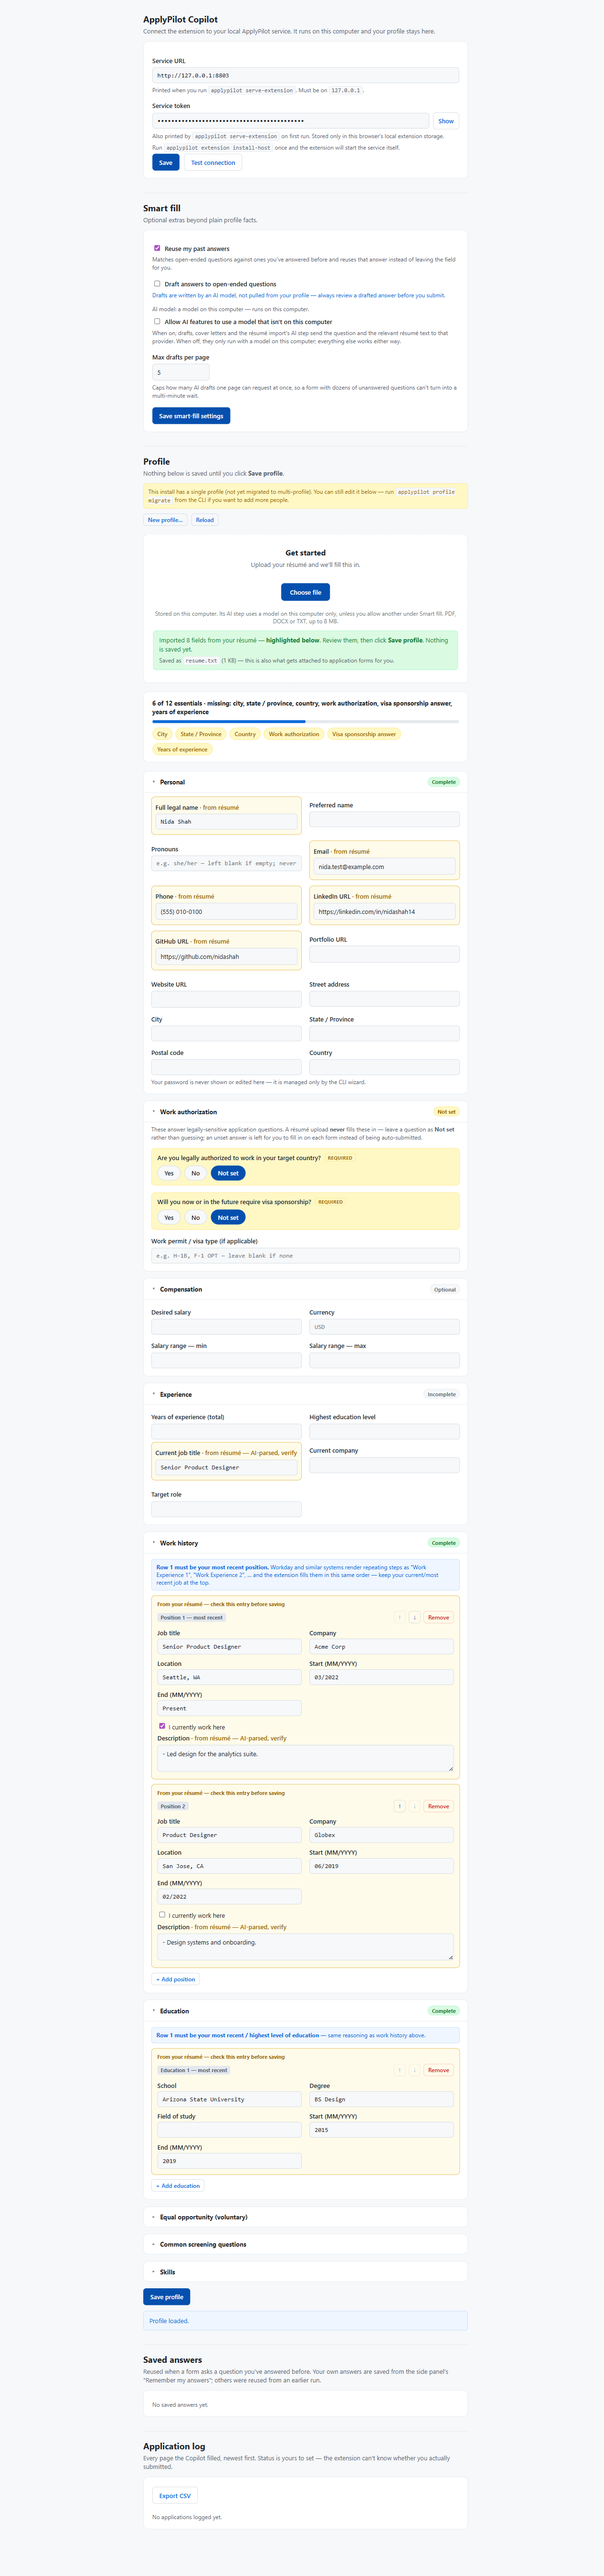
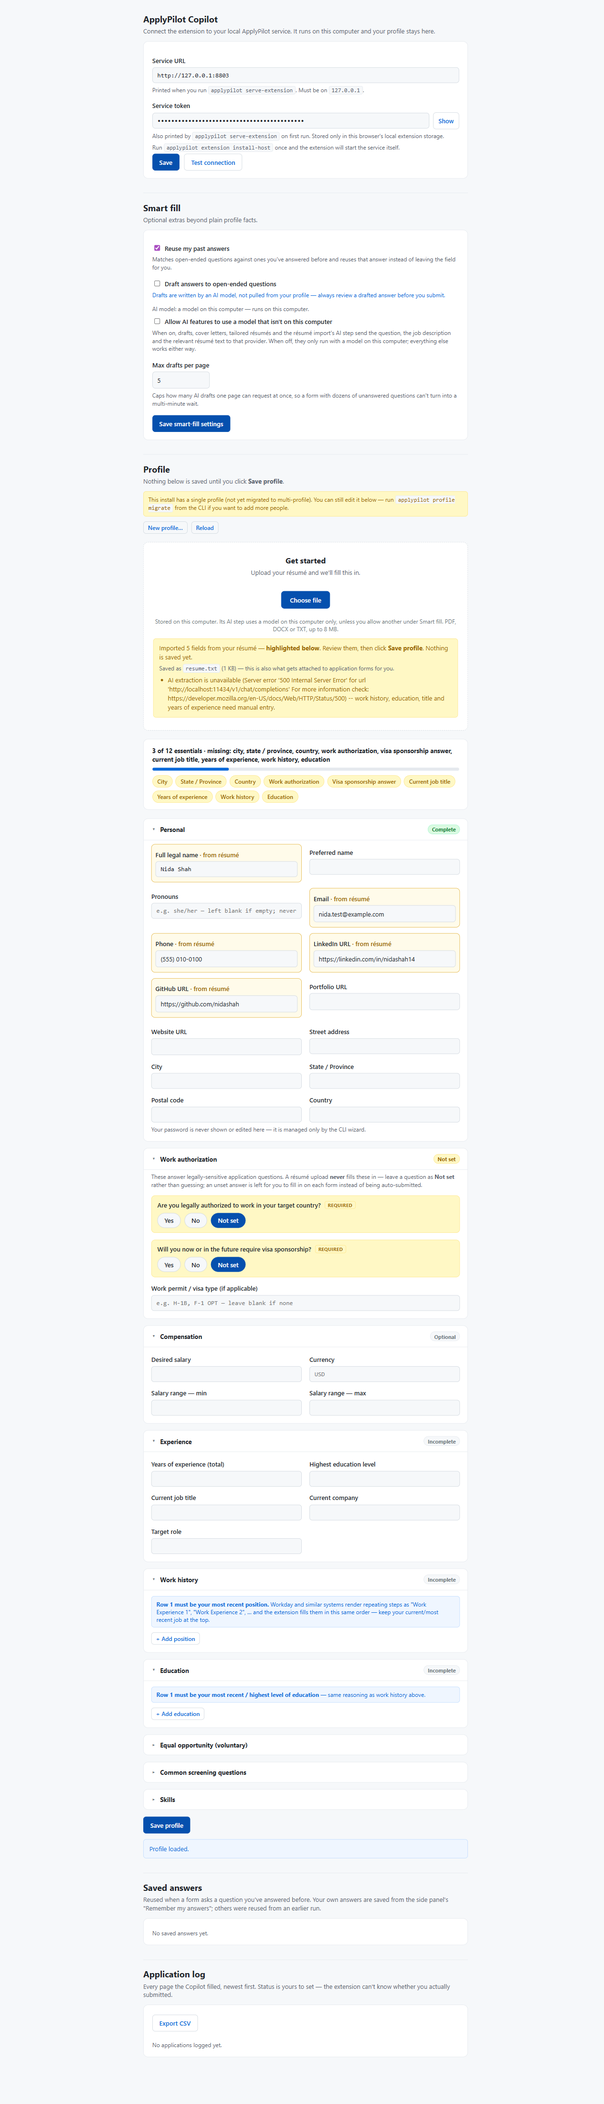
extension: read the tab's URL before a site is allowed ("tabs"); hermetic tests
Real-site bug: with only optional host permissions, Chrome hides tab.url for
any site not yet allowed, so the side panel treated every real job page as
unscriptable ("Open a job application page (http/https) in this tab...") and
never offered Fill -- the click that would have shown the per-site prompt.
Adding the "tabs" permission lets the panel read the one tab it shows.
Regression: TAB 0 in chrome_panel_test.py opens a page on an origin the test
has NOT granted and asserts Fill is offered and the red line is absent.

The permission gate never fails silently: if chrome.permissions.request()
rejects or throws (Chrome refusing to show its prompt, not a Deny), the
click used to do nothing at all (and the tailored-resume buttons stuck on
"Saving..."). gatePermissions() now resolves false with Chrome's reason, and
every caller shows it plus the no-prompt route (Alt+Shift+G). TAB 0 stubs the
request (reject / throw / deny) and checks each line and that nothing ran.

Tests never reach the operator's real native host: a Playwright Chrome build
reads the same Google Chrome NativeMessagingHosts registration, so after
install-host the panel/options tests auto-connected to the real service.
background.js honors a TEST-ONLY chrome.storage.local.nativeHostNameOverride,
set by chrome_panel_test.py and both e2e options scripts before any extension
page loads. install-host now registers for Google Chrome only and removes the
[…]

diff --git a/extension/sidepanel.js b/extension/sidepanel.js
@@ -191,14 +191,41 @@
   /**
    * Synchronous by design: reads the cache refreshOriginInfo() already populated and, if
    * anything is missing, calls chrome.permissions.request() immediately — the caller (a click
-   * handler) must invoke this with NO `await` beforehand. Returns { requested, promise }, never
-   * itself a Promise, so calling it can never itself introduce an await.
+   * handler) must invoke this with NO `await` beforehand. Returns { requested, error, promise },
+   * never itself a Promise, so calling it can never itself introduce an await.
    */
   function gatePermissions(tabId) {
     var info = originInfoByTab[tabId];
     var missing = info ? info.missing : [];
     if (!missing.length) return { requested: [], promise: Promise.resolve(true) };
-    return { requested: missing, promise: chrome.permissions.request({ origins: missing }) };
+    // Never throws, never rejects: when Chrome refuses to show its prompt at all (an error, not
+    // a "Deny"), the promise resolves false and gate.error keeps Chrome's reason, so every
+    // caller's not-granted branch says what happened instead of the click silently doing nothing.
+    var gate = { requested: missing, error: null, promise: null };
+    try {
+      gate.promise = chrome.permissions.request({ origins: missing }).then(function (granted) {
+        return !!granted;
+      }, function (e) {
+        gate.error = (e && e.message) || String(e);
+        return false;
+      });
+    } catch (e) {
+      gate.error = (e && e.message) || String(e);
+      gate.promise = Promise.resolve(false);
+    }
+    return gate;
+  }
+
+  // The line a not-granted gate shows: a real "Deny" names the sites; a prompt Chrome would not
+  // show at all says so, with Chrome's own reason and the way through that needs no prompt.
+  function permissionLine(gate, doing) {
+    var hosts = gate.requested.map(hostFromPattern).join(', ');
+    if (gate.error) {
+      return 'Chrome did not show its permission prompt for ' + hosts + ' (' + gate.error + '). ' +
+        'Click again, or press Alt+Shift+G on the page, which needs no prompt unless the form ' +
+        'is embedded from another site.';
+    }
+    return 'ApplyPilot needs permission to ' + doing + ' on ' + hosts + ' — nothing runs until you allow it.';
   }
 
   function setStatus(text, isError) {
@@ -709,8 +736,7 @@
     var gate = gatePermissions(tabId);
     gate.promise.then(async function (granted) {
       if (!granted) {
-        setStatus('ApplyPilot needs permission to fill forms on ' +
-          gate.requested.map(hostFromPattern).join(', ') + ' — nothing runs until you allow it.', true);
+        setStatus(permissionLine(gate, 'fill forms'), true);
         return;
       }
       var tab = await safeGetTab(tabId);
@@ -772,8 +798,7 @@
     gate.promise.then(async function (granted) {
       if (!granted) {
         continuationToggle.checked = false;
-        setStatus('ApplyPilot needs permission to keep filling on ' +
-          gate.requested.map(hostFromPattern).join(', ') + ' — nothing runs until you allow it.', true);
+        setStatus(permissionLine(gate, 'keep filling'), true);
         return;
       }
       var tab = await safeGetTab(tabId);
@@ -820,8 +845,7 @@
     var gate = gatePermissions(tabId);
     gate.promise.then(async function (granted) {
       if (!granted) {
-        setStatus('ApplyPilot needs permission to read this page on ' +
-          gate.requested.map(hostFromPattern).join(', ') + ' — nothing runs until you allow it.', true);
+        setStatus(permissionLine(gate, 'read this page'), true);
         return;
       }
       reportBtn.disabled = true;
@@ -989,8 +1013,7 @@
     var gate = gatePermissions(tabId);
     gate.promise.then(async function (granted) {
       if (!granted) {
-        setCoverLetterStatus('ApplyPilot needs permission to read this page on ' +
-          gate.requested.map(hostFromPattern).join(', ') + ' — nothing runs until you allow it.', 'error');
+        setCoverLetterStatus(permissionLine(gate, 'read this page'), 'error');
         return;
       }
       var tab = await safeGetTab(tabId);
@@ -1130,8 +1153,7 @@
     var gate = gatePermissions(tabId);
     gate.promise.then(async function (granted) {
       if (!granted) {
-        setTailorResumeStatus('ApplyPilot needs permission to read this page on ' +
-          gate.requested.map(hostFromPattern).join(', ') + ' — nothing runs until you allow it.', 'error');
+        setTailorResumeStatus(permissionLine(gate, 'read this page'), 'error');
         return;
       }
       var tab = await safeGetTab(tabId);

diff --git a/extension/background.js b/extension/background.js
@@ -71,18 +71,30 @@ if (self.chrome && chrome.sidePanel && typeof chrome.sidePanel.setPanelBehavior 
 // ---------------------------------------------------------------------
 var NATIVE_HOST_NAME = 'com.applypilot.copilot';
 
+// TEST-ONLY: chrome.storage.local.nativeHostNameOverride points the extension at a
+// different host name, so the automated tests can never reach an operator's REAL,
+// installed host (and through it the real service and data) on the machine they run
+// on — the test sets a name no host is registered under. Absent in normal use.
+function nativeHostName() {
+  return chrome.storage.local.get('nativeHostNameOverride').then(function (r) {
+    return (r && r.nativeHostNameOverride) || NATIVE_HOST_NAME;
+  }, function () { return NATIVE_HOST_NAME; });
+}
+
 function sendNativeMessage(message) {
-  return new Promise(function (resolve) {
-    try {
-      if (!chrome.runtime.sendNativeMessage) { resolve({ ok: false, error: 'nativeMessaging unavailable in this browser' }); return; }
-      chrome.runtime.sendNativeMessage(NATIVE_HOST_NAME, message, function (response) {
-        var err = chrome.runtime.lastError;
-        if (err) { resolve({ ok: false, error: (err && err.message) || String(err) }); return; }
-        resolve(response && typeof response === 'object' ? response : { ok: false, error: 'empty response from the native host' });
-      });
-    } catch (e) {
-      resolve({ ok: false, error: String(e && e.message ? e.message : e) });
-    }
+  return nativeHostName().then(function (hostName) {
+    return new Promise(function (resolve) {
+      try {
+        if (!chrome.runtime.sendNativeMessage) { resolve({ ok: false, error: 'nativeMessaging unavailable in this browser' }); return; }
+        chrome.runtime.sendNativeMessage(hostName, message, function (response) {
+          var err = chrome.runtime.lastError;
+          if (err) { resolve({ ok: false, error: (err && err.message) || String(err) }); return; }
+          resolve(response && typeof response === 'object' ? response : { ok: false, error: 'empty response from the native host' });
+        });
+      } catch (e) {
+        resolve({ ok: false, error: String(e && e.message ? e.message : e) });
+      }
+    });
   });
 }
 

diff --git a/scripts/chrome_panel_test.py b/scripts/chrome_panel_test.py
@@ -88,6 +88,12 @@ check("minimum_chrome_version bumped to 116 (chrome.sidePanel.setPanelBehavior n
 # --- item 1: auto-connect via native messaging ---
 check("manifest requests the nativeMessaging permission (auto-connect)",
       "nativeMessaging" in (manifest.get("permissions") or []))
+# Without "tabs", Chrome hides a tab's URL from the extension until its site is
+# granted, so on every real (not-yet-granted) job site the panel said "Open a job
+# application page" and never reached the permission prompt — caught by the
+# operator on the first real run. It reads URLs only; host access stays optional.
+check("manifest requests the tabs permission (read the active tab's URL before any grant)",
+      "tabs" in (manifest.get("permissions") or []))
 
 
 def _chrome_extension_id_from_key(b64_key: str) -> str:
@@ -1424,6 +1430,9 @@ KEPT_VALUES_URL = f"{SERVICE_URL}/kept-values-page.html"
 # ---------------------------------------------------------------------------
 # helpers shared by the browser-driven checks below
 # ---------------------------------------------------------------------------
+TEST_ABSENT_HOST = "com.applypilot.copilot.test_absent"
+
+
 def find_tab_id(helper_page, marker, timeout_s=5):
     deadline = time.time() + timeout_s
     while time.time() < deadline:
@@ -1781,6 +1790,9 @@ with sync_playwright() as p:
         if not sw:
             raise SystemExit("cannot continue without the extension's service worker")
         ext_id = sw.url.split("/")[2]
+        # Before ANY extension page loads (each one checks the service): never the
+        # operator's real native host — see TEST_ABSENT_HOST.
+        sw.evaluate("(h) => chrome.storage.local.set({ nativeHostNameOverride: h })", TEST_ABSENT_HOST)
         panel_url = f"chrome-extension://{ext_id}/sidepanel.html"
 
         # --- helper: an ordinary (unpinned) panel page used purely to drive chrome.* API
@@ -1815,10 +1827,13 @@ with sync_playwright() as p:
             return port
 
         UNREACHABLE_URL = f"http://127.0.0.1:{_unused_local_port()}"
+        # A host name no one registers: the suite must never reach the operator's REAL
+        # installed host (and through it the real service and data) on this machine — a
+        # Playwright Chrome build reads the same Google Chrome registration.
         helper.evaluate(
             "(cfg) => chrome.storage.local.set(cfg).then(() => "
             "chrome.storage.local.remove(['token', 'serviceConnection']))",
-            {"serviceUrl": UNREACHABLE_URL},
+            {"serviceUrl": UNREACHABLE_URL, "nativeHostNameOverride": TEST_ABSENT_HOST},
         )
 
         panel0 = ctx.new_page()
@@ -1849,7 +1864,7 @@ with sync_playwright() as p:
         # token is already stored and calls keep succeeding (see requestWithAutoConnect).
         helper.evaluate(
             "(cfg) => chrome.storage.local.set(cfg)",
-            {"serviceUrl": SERVICE_URL, "token": "test-token"},
+            {"serviceUrl": SERVICE_URL, "token": "test-token", "nativeHostNameOverride": TEST_ABSENT_HOST},
         )
 
         # Record every chrome.storage.session write, keyed by tabId, straight from
@@ -1870,6 +1885,74 @@ with sync_playwright() as p:
                 }
             });
         }""")
+
+        # =====================================================================
+        # TAB 0 — a page on a site the extension has NOT been granted (localhost
+        #         is not in host_permissions; only 127.0.0.1 is). The panel must
+        #         still see it as a fillable page and offer Fill, which is what
+        #         leads to Chrome's per-site permission prompt.
+        # =====================================================================
+        tab0 = ctx.new_page()
+        tab0.goto(f"http://localhost:{stub_port}/test-page.html#t=0-ungranted")
+        tab0_id = find_tab_id(helper, "#t=0-ungranted")
+        check("found the ungranted tab's id (its URL is readable)", tab0_id is not None)
+        panel0 = ctx.new_page()
+        panel0.goto(f"{panel_url}?tabId={tab0_id}")
+        panel0.wait_for_function("() => window.__applyPilotPanelReady === true", timeout=5000)
+        status0 = panel0.eval_on_selector("#statusBox", "el => el.textContent") or ""
+        check("an ungranted https/http page is NOT reported as 'open a job application page'",
+              "Open a job application page" not in status0, status0)
+        check("Fill is offered on an ungranted page (leading to Chrome's permission prompt)",
+              panel0.eval_on_selector("#scanBtn", "el => el.disabled") is False)
+
+        # Clicking Fill here reaches the REAL chrome.permissions.request() for localhost, whose
+        # native prompt Playwright can't click -- so the panel's own reference to it is swapped
+        # for a stub per case. Every case must end in a visible line on the panel and no fill:
+        # a request that rejects or throws (Chrome refusing to show its prompt at all) used to
+        # leave the click silently doing nothing.
+        def click_fill_with_request(stub_js, expect):
+            panel0.evaluate(stub_js)
+            panel0.evaluate("() => { document.querySelector('#statusBox').textContent = ''; }")
+            panel0.click("#scanBtn")
+            try:
+                panel0.wait_for_function(
+                    "(t) => (document.querySelector('#statusBox').textContent || '').includes(t)",
+                    arg=expect, timeout=5000)
+            except Exception:
+                pass
+            return panel0.eval_on_selector("#statusBox", "el => el.textContent") or ""
+
+        resolves_before0 = len(resolve_calls)
+        line0 = click_fill_with_request(
+            "() => { window.__permCalls = []; chrome.permissions.request = (arg) => {"
+            " window.__permCalls.push(arg);"
+            " return Promise.reject(new Error('Could not find an active window.')); }; }",
+            "did not show its permission prompt")
+        perm_calls0 = panel0.evaluate("() => window.__permCalls")
+        # Exactly the page's origin, port included -- never a wider "any port" grant.
+        check("Fill on an ungranted page asks Chrome for exactly that site's origin",
+              perm_calls0 == [{"origins": [f"http://localhost:{stub_port}/*"]}], json.dumps(perm_calls0))
+        check("a permission request Chrome REJECTS shows a line with Chrome's reason (never a silent click)",
+              f"did not show its permission prompt for localhost:{stub_port} (Could not find an active window.)"
+              in line0, line0)
+        check("...and names the no-prompt route (Alt+Shift+G)", "Alt+Shift+G" in line0, line0)
+        line0b = click_fill_with_request(
+            "() => { chrome.permissions.request = () => { throw new Error('request threw'); }; }",
+            "did not show its permission prompt")
+        check("a permission request that THROWS shows the same line, with its reason",
+              f"did not show its permission prompt for localhost:{stub_port} (request threw)" in line0b,
+              line0b)
+        line0c = click_fill_with_request(
+            "() => { chrome.permissions.request = () => Promise.resolve(false); }",
+            "needs permission")
+        check("a real Deny names the site and says nothing runs",
+              line0c == f"ApplyPilot needs permission to fill forms on localhost:{stub_port} — nothing runs until you allow it.",
+              line0c)
+        check("no ungranted-page case reached /resolve or wrote a fill state",
+              len(resolve_calls) == resolves_before0 and not (get_state(helper, tab0_id) or {}).get("counts"),
+              f"resolve calls +{len(resolve_calls) - resolves_before0}")
+        panel0.close()
+        tab0.close()
 
         # =====================================================================
         # TAB 1 — basic fill through the REAL panel button, proving per-tab state

diff --git a/src/applypilot/extension/native_install.py b/src/applypilot/extension/native_install.py
@@ -8,7 +8,7 @@ What ``applypilot extension install-host`` does:
    ``python -m applypilot.extension.native_host`` with this install's data
    directory, and com.applypilot.copilot.json, the host manifest naming the
    launcher and allowing ONLY that extension ID;
-3. registers the manifest for Chrome (and Chromium) under
+3. registers the manifest for Google Chrome (only) under
    HKCU\\Software\\<browser>\\NativeMessagingHosts\\com.applypilot.copilot.
 
 Everything is per-user and reversible with ``uninstall-host``.
@@ -25,8 +25,15 @@ from typing import Callable
 
 from applypilot.extension.native_host import HOST_NAME
 
+# Google Chrome only. Registering for Chromium too let the test suite's own
+# (Playwright) Chromium find the operator's real host and talk to the real,
+# live service; nobody runs the extension in plain Chromium day to day.
 REGISTRY_PATHS = (
     r"Software\Google\Chrome\NativeMessagingHosts",
+)
+# Registered by the first version of this installer; removed on (re)install
+# and uninstall.
+LEGACY_REGISTRY_PATHS = (
     r"Software\Chromium\NativeMessagingHosts",
 )
 
@@ -99,6 +106,7 @@ def _winreg_delete(subkey: str) -> None:
 def install(extension_dir: Path, app_dir: Path, *, python_exe: str | None = None,
             env: dict[str, str] | None = None,
             reg_set: Callable[[str, str], None] = _winreg_set,
+            reg_delete: Callable[[str], None] | None = None,
             keygen: Callable[[], str] = _new_public_key_b64) -> dict:
     ext_id = ensure_manifest_key(Path(extension_dir) / "manifest.json", keygen=keygen)
     env = dict(os.environ if env is None else env)
@@ -106,11 +114,13 @@ def install(extension_dir: Path, app_dir: Path, *, python_exe: str | None = None
     manifest = write_host_files(Path(app_dir) / "native_host", ext_id, python_exe or sys.executable, env)
     for base in REGISTRY_PATHS:
         reg_set(base + "\\" + HOST_NAME, str(manifest))
+    for base in LEGACY_REGISTRY_PATHS:
+        (reg_delete or _winreg_delete)(base + "\\" + HOST_NAME)
     return {"extension_id": ext_id, "manifest": str(manifest)}
 
 
 def uninstall(app_dir: Path, *, reg_delete: Callable[[str], None] = _winreg_delete) -> None:
-    for base in REGISTRY_PATHS:
+    for base in REGISTRY_PATHS + LEGACY_REGISTRY_PATHS:
         reg_delete(base + "\\" + HOST_NAME)
     host_dir = Path(app_dir) / "native_host"
     for name in ("applypilot_host.bat", f"{HOST_NAME}.json"):

diff --git a/tests/test_extension_native_host.py b/tests/test_extension_native_host.py
@@ -70,8 +70,10 @@ def test_install_pins_the_id_writes_host_files_and_registers(tmp_path):
     (ext / "manifest.json").write_text(json.dumps({"manifest_version": 3, "name": "X"}), encoding="utf-8")
     key = base64.b64encode(b"k" * 40).decode()
     reg = {}
+    deleted = []  # never the real registry in a test
     r = native_install.install(ext, tmp_path / "data", python_exe=r"C:\Py\python.exe",
-                               env={"APPLYPILOT_DIR": r"E:\data"}, reg_set=reg.__setitem__, keygen=lambda: key)
+                               env={"APPLYPILOT_DIR": r"E:\data"}, reg_set=reg.__setitem__,
+                               reg_delete=deleted.append, keygen=lambda: key)
     assert json.loads((ext / "manifest.json").read_text(encoding="utf-8"))["key"] == key
     assert r["extension_id"] == native_install.extension_id_from_key(key)
     host = json.loads((tmp_path / "data" / "native_host" / "com.applypilot.copilot.json").read_text())
@@ -79,9 +81,11 @@ def test_install_pins_the_id_writes_host_files_and_registers(tmp_path):
     bat = (tmp_path / "data" / "native_host" / "applypilot_host.bat").read_text()
     assert r'set "APPLYPILOT_DIR=E:\data"' in bat and "applypilot.extension.native_host" in bat
     assert set(reg) == {base + r"\com.applypilot.copilot" for base in native_install.REGISTRY_PATHS}
+    assert set(reg) == {r"Software\Google\Chrome\NativeMessagingHosts\com.applypilot.copilot"}  # Chrome only
+    assert r"Software\Chromium\NativeMessagingHosts\com.applypilot.copilot" in deleted  # legacy entry removed
     # A second install keeps the same key (and so the same ID).
     native_install.install(ext, tmp_path / "data", python_exe="py", env={}, reg_set=reg.__setitem__,
-                           keygen=lambda: "different")
+                           reg_delete=deleted.append, keygen=lambda: "different")
     assert json.loads((ext / "manifest.json").read_text(encoding="utf-8"))["key"] == key
 
 

diff --git a/scripts/e2e_options_resume.py b/scripts/e2e_options_resume.py
@@ -112,6 +112,11 @@ try:
                     pass
             check("extension loaded (MV3 service worker registered)", sw is not None)
             ext_id = sw.url.split("/")[2]
+            # Never the operator's REAL installed native host (it would auto-connect this test
+            # to the real service and real profile): point the extension at a host name no one
+            # registers, before any extension page loads.
+            sw.evaluate("(h) => chrome.storage.local.set({ nativeHostNameOverride: h })",
+                        "com.applypilot.copilot.test_absent")
 
             page = ctx.new_page()
             # Seed the extension's storage the way the operator would via Options.

diff --git a/scripts/e2e_options_manage.py b/scripts/e2e_options_manage.py
@@ -151,6 +151,11 @@ try:
                     pass
             check("extension loaded (MV3 service worker registered)", sw is not None)
             ext_id = sw.url.split("/")[2]
+            # Never the operator's REAL installed native host (it would auto-connect this test
+            # to the real service and real profile): point the extension at a host name no one
+            # registers, before any extension page loads.
+            sw.evaluate("(h) => chrome.storage.local.set({ nativeHostNameOverride: h })",
+                        "com.applypilot.copilot.test_absent")
 
             page = ctx.new_page()
             page.set_default_timeout(8000)

diff --git a/extension/README.md b/extension/README.md
@@ -447,6 +447,14 @@ are never written into the fill-report export (see "Export fill report" below).
   frames a tab currently has, so it knows which origins a fill will need (see below) and so
   `background.js` can find and message each one by its own frame id (see "Fill every frame").
   It never lets this extension see browsing history beyond the current tab's own frame tree.
+- `tabs`: lets the panel read the URL of the tab it is showing *before* you have allowed that
+  site. Without it Chrome hides `tab.url` for every site the extension has no host permission
+  for, so the panel could not tell a job page from a `chrome://` page — it showed "Open a job
+  application page (http/https) in this tab…" on every real site and never offered Fill (and so
+  never reached the per-site prompt below). Chrome words this permission as "Read your browsing
+  history" because it technically exposes every open tab's URL and title; the extension only
+  ever reads the one tab the panel is showing, and only to decide whether Fill applies and
+  which origins to ask for. Nothing about it is stored or sent anywhere until you click Fill.
 - `host_permissions` is **only** `http://127.0.0.1/*` and `http://127.0.0.1:*/*` — the local
   service, and nothing else. That is the *only* host this extension can ever act on without
   asking you first. There is no static grant for `https://*/*`, `http://*/*`, or `<all_urls>` —
@@ -466,7 +474,10 @@ are never written into the fill-report export (see "Export fill report" below).
   - You're asked **once per site** (Chrome remembers the grant — see `chrome://extensions` → this
     extension → "Site access" — and it's revocable there any time); if you decline, the panel
     shows one line — "ApplyPilot needs permission to fill forms on \<hosts\> — nothing runs until
-    you allow it." — and **nothing is injected, nothing runs**.
+    you allow it." — and **nothing is injected, nothing runs**. If Chrome refuses to show the
+    prompt at all (an error, not a Deny), the line says so instead, with Chrome's own reason and
+    the no-prompt route (Alt+Shift+G, see "Keyboard shortcuts") — the click never silently does
+    nothing.
   - A 127.0.0.1 test/dev page never triggers this prompt at all — it's already covered by the
     static `host_permissions` above.
   - None of this widens what the extension does *unprompted*: injection is still 100% gated on a
